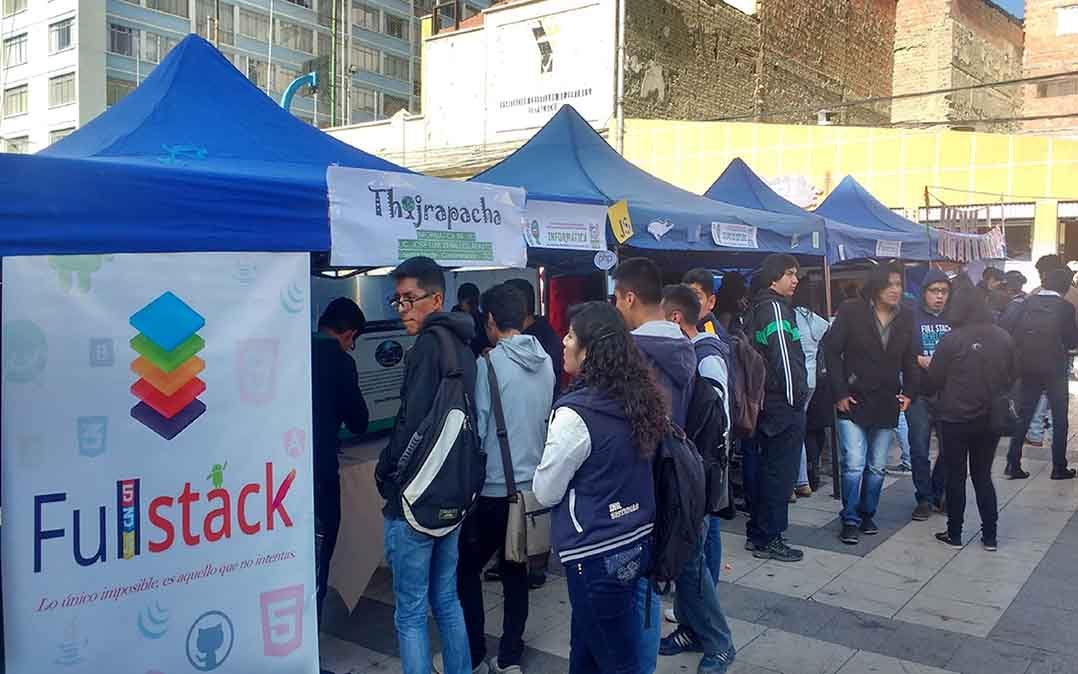
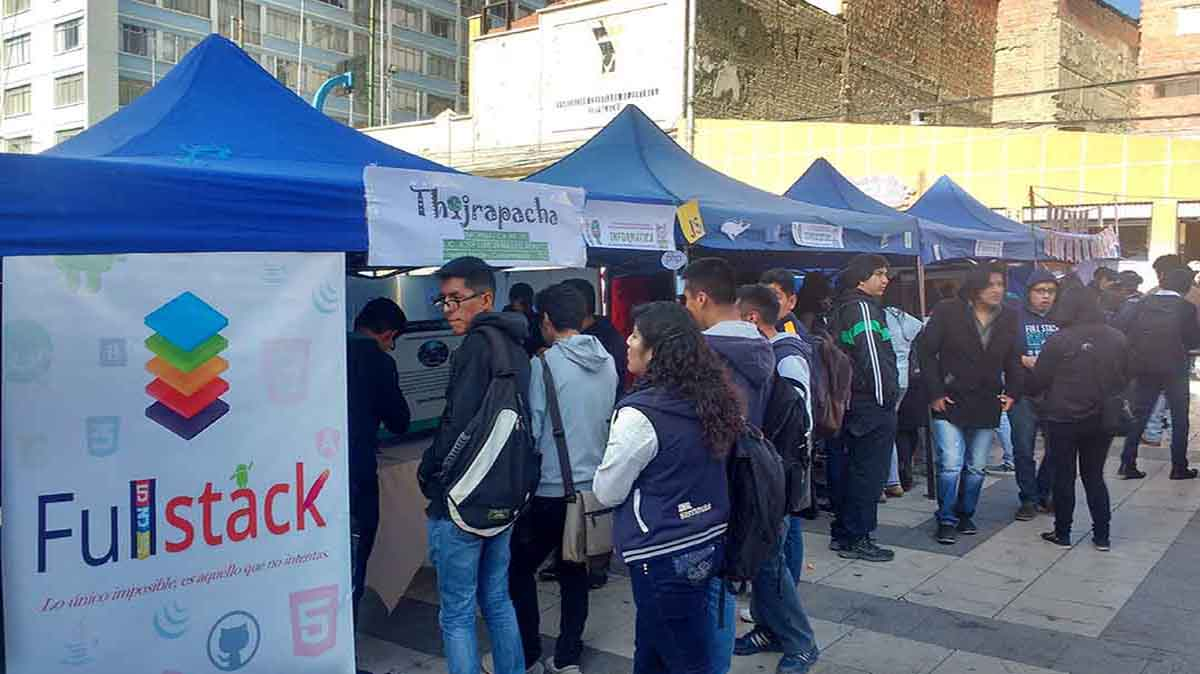
configurando la estetica de las imagenes para el slaider

Changed region(s): [[0.7041, 0.4674, 0.7347, 0.5608]]

diff --git a/index.html b/index.html
@@ -30,9 +30,6 @@
         .presentacion{
             color: #FF9F1C;
         }
-        .imgCuadrada{
-          height: 35vh;
-        }
     </style>
 
     <!-- inicio navegador -->
@@ -77,19 +74,19 @@
 
                             <div class="container">
 
-                                <div class="row">
+                                <div class="row my-5">
 
                                     <div class="col-12 col-md-6 align-self-center mb-3 mb-md-0">
                                         
                                         <div class="row">
 
-                                            <div class="offset-1 col-11 div slaider-fond text-white lead">
+                                            <div class="col-12 div slaider-fond text-white lead">
 
                                                 <h3 class="text-success">Cursos</h3>
 
                                             </div>
 
-                                            <div class="offset-1 col-10 offset-1">
+                                            <div class="col-12">
 
                                                 <p class="text-white text-justify slaider-fond lead"> 
                                                     <svg class="bi bi-envelope-open" width="1em" height="1em" viewBox="0 0 16 16" fill="currentColor" xmlns="http://www.w3.org/2000/svg">
@@ -103,9 +100,9 @@
                                         </div>
                                     </div>
 
-                                    <div class="col-12 col-md-6 mt-md-4 mb-md-5      mb-3 mb-md-0">
+                                    <div class="col-12 col-md-6 mt-md-4 mb-md-5 mb-3 mb-md-0">
 
-                                        <img src="img/cursos.jpg" class="imgCuadrada d-inline-block img-fluid rounded-lg border border-dark" alt="cursos universitarios">
+                                        <img src="img/cursos.jpg" class="h-100 w-100 d-inline-block img-fluid rounded-lg border border-dark" alt="cursos universitarios">
 
                                     </div>
 
@@ -119,19 +116,19 @@
 
                             <div class="container">
 
-                                <div class="row">
+                                <div class="row my-5">
 
                                     <div class="col-12 col-md-6 align-self-center mb-3 mb-md-0">
 
                                         <div class="row">
 
-                                            <div class="offset-1 col-11 div slaider-fond text-white lead">
+                                            <div class="col-12 div slaider-fond text-white lead">
 
                                                 <h3 class="text-success">Ferias</h3>
 
                                             </div>
 
-                                            <div class="offset-1 col-10 offset-1">
+                                            <div class="col-12">
                                                 <p class="text-white text-justify slaider-fond lead"> 
                                                     <svg class="bi bi-newspaper" width="1em" height="1em" viewBox="0 0 16 16" fill="currentColor" xmlns="http://www.w3.org/2000/svg">
                                                         <path fill-rule="evenodd" d="M0 2A1.5 1.5 0 011.5.5h11A1.5 1.5 0 0114 2v12a1.5 1.5 0 01-1.5 1.5h-11A1.5 1.5 0 010 14V2zm1.5-.5A.5.5 0 001 2v12a.5.5 0 00.5.5h11a.5.5 0 00.5-.5V2a.5.5 0 00-.5-.5h-11z" clip-rule="evenodd"/>
@@ -141,17 +138,15 @@
                                                       Con lo aprendido podrás realizar tus propios proyectos y poder promocionarlos en las ferias que se realizan en nuestra universidad
                                                 </p>
 
-                                                  
-
                                             </div>
 
                                         </div>
 
                                     </div>
 
-                                    <div class="col-12 col-md-6 mt-md-4 mb-md-5      mb-3 mb-md-0">
+                                    <div class="col-12 col-md-6 mt-md-4 mb-md-5 mb-3 mb-md-0">
 
-                                        <img src="img/ferias.jpg" class="imgCuadrada d-block img-fluid rounded-lg border border-dark" alt="...">
+                                        <img src="img/ferias.jpg" class="h-100 w-100 d-block img-fluid rounded-lg border border-dark" alt="...">
 
                                     </div>
 
